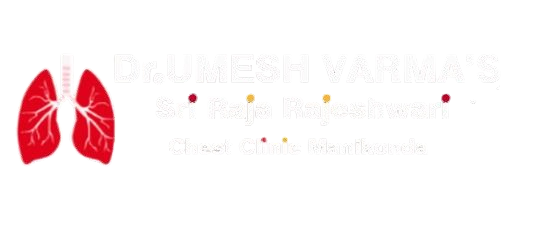
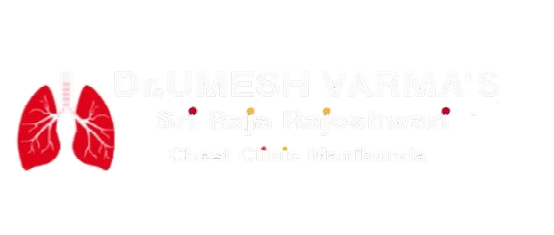
s

diff --git a/index.html b/index.html
@@ -125,7 +125,7 @@
               <div class="col-lg-4 col-md-3 col-12">
                 <!-- Start Logo -->
                 <div class="logo">
-                  <a href="#"><img src="img/log.png" alt="#" /></a>
+                  <a href="#"><img src="img/logo-2.png" alt="#" /></a>
                 </div>
                 <!-- End Logo -->
                 <!-- Mobile Nav -->
